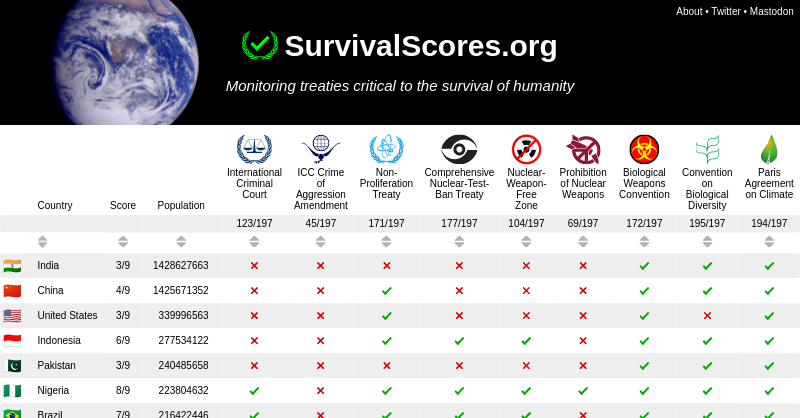
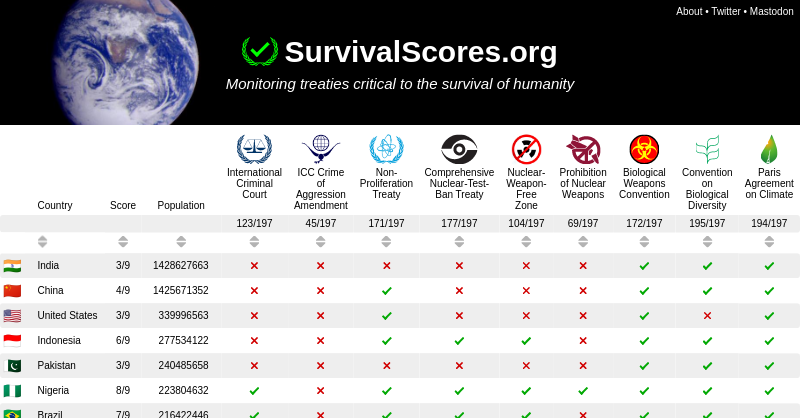
Deploying to gh-pages from @ arthuredelstein/survivalscores.org@b47923a232fb7ba28438dea5e5c1e26f3a3f0827 🚀

Changed region(s): [[0.2812, 0.0622, 0.7188, 0.1555], [0.2812, 0.1866, 0.7188, 0.2177]]

diff --git a/index.html b/index.html
@@ -165,11 +165,6 @@ thead {
 .flag {
   font-family: "Twemoji Country Flags", serif;
 }
-h3 {
-  font-size: calc(0.5 * max(min(4vw, 48px), 40px));
-  font-style: italic;
-  font-weight: normal;
-}
 .title {
   margin: 0px;
   color: white;
@@ -190,6 +185,25 @@ h3 {
   height: 180px;
   position: fixed;
 }
+.title-group {
+  height: 100%;
+  display: flex;
+  flex-direction: column;
+  align-items: center;
+  justify-content: center;
+  color:white;
+}
+.title-text {
+  font-size: max(min(4vw, 48px), 40px);
+  font-weight: bold;
+  margin: 5px;
+}
+.tagline-text {
+  font-size: calc(0.5 * max(min(4vw, 48px), 40px));
+  font-style: italic;
+  font-weight: normal;
+  margin: 5px;
+}
 .links {
   position: absolute;
   top: 10px;
@@ -207,11 +221,6 @@ h3 {
   color: white;
   text-decoration-line: none;
 }
-h1 {
-  font-size: max(min(4vw, 48px), 40px);
-  margin-bottom: 8px;
-  color:white;
-}
 #updated {
   font-style: normal;
   position: absolute;
@@ -223,7 +232,7 @@ h1 {
   transform: translate(0px, calc(0.15 * max(min(4vw, 48px), 40px)));
   width: calc(1.2 * max(min(4vw, 48px), 40px));
 }</style>
-  <script type="module">const dataDate = new Date('Tue Oct 24 2023 00:21:56 GMT+0000 (Coordinated Universal Time)');
+  <script type="module">const dataDate = new Date('Tue Oct 24 2023 00:22:49 GMT+0000 (Coordinated Universal Time)');
 import { polyfillCountryFlagEmojis } from './country-flag-emoji-polyfill/country-flag-emoji-polyfill.js';
 
 // Initially will be sorted by population
@@ -298,8 +307,11 @@ window.addEventListener("DOMContentLoaded", (e) => {
   <meta property="og:type" content="website"/>
  </head>
  <body>
-  <div class='title'><h1><img id='logo' src='./images/survivalscores_logo.svg'>SurvivalScores.org</h1>
-    <h3>Monitoring treaties critical to the survival of humanity</h3>
+  <div class='title'>
+    <div class='title-group'>
+      <div class='title-text'><img id='logo' src='./images/survivalscores_logo.svg'>SurvivalScores.org</div>
+      <div class='tagline-text'>Monitoring treaties critical to the survival of humanity</div>
+    </div>
     <div id='updated'></div>
     <div class='links'>
     <a href="./about">About</a> &#x2022;
@@ -315,7 +327,7 @@ window.addEventListener("DOMContentLoaded", (e) => {
       <li><a href="https://treaties.un.org/Pages/ParticipationStatus.aspx">Multilateral Treaties Deposited with the Secretary-General</a>, United Nations, New York</li>
       <li><a href="https://data.un.org/">UNdata</a>, United Nations Statistics Division</li>
     </ul>
-    Data retrieved at 2023-10-24T00:21:56.885Z
+    Data retrieved at 2023-10-24T00:22:49.938Z
   </div>
 </div>
  </body>
